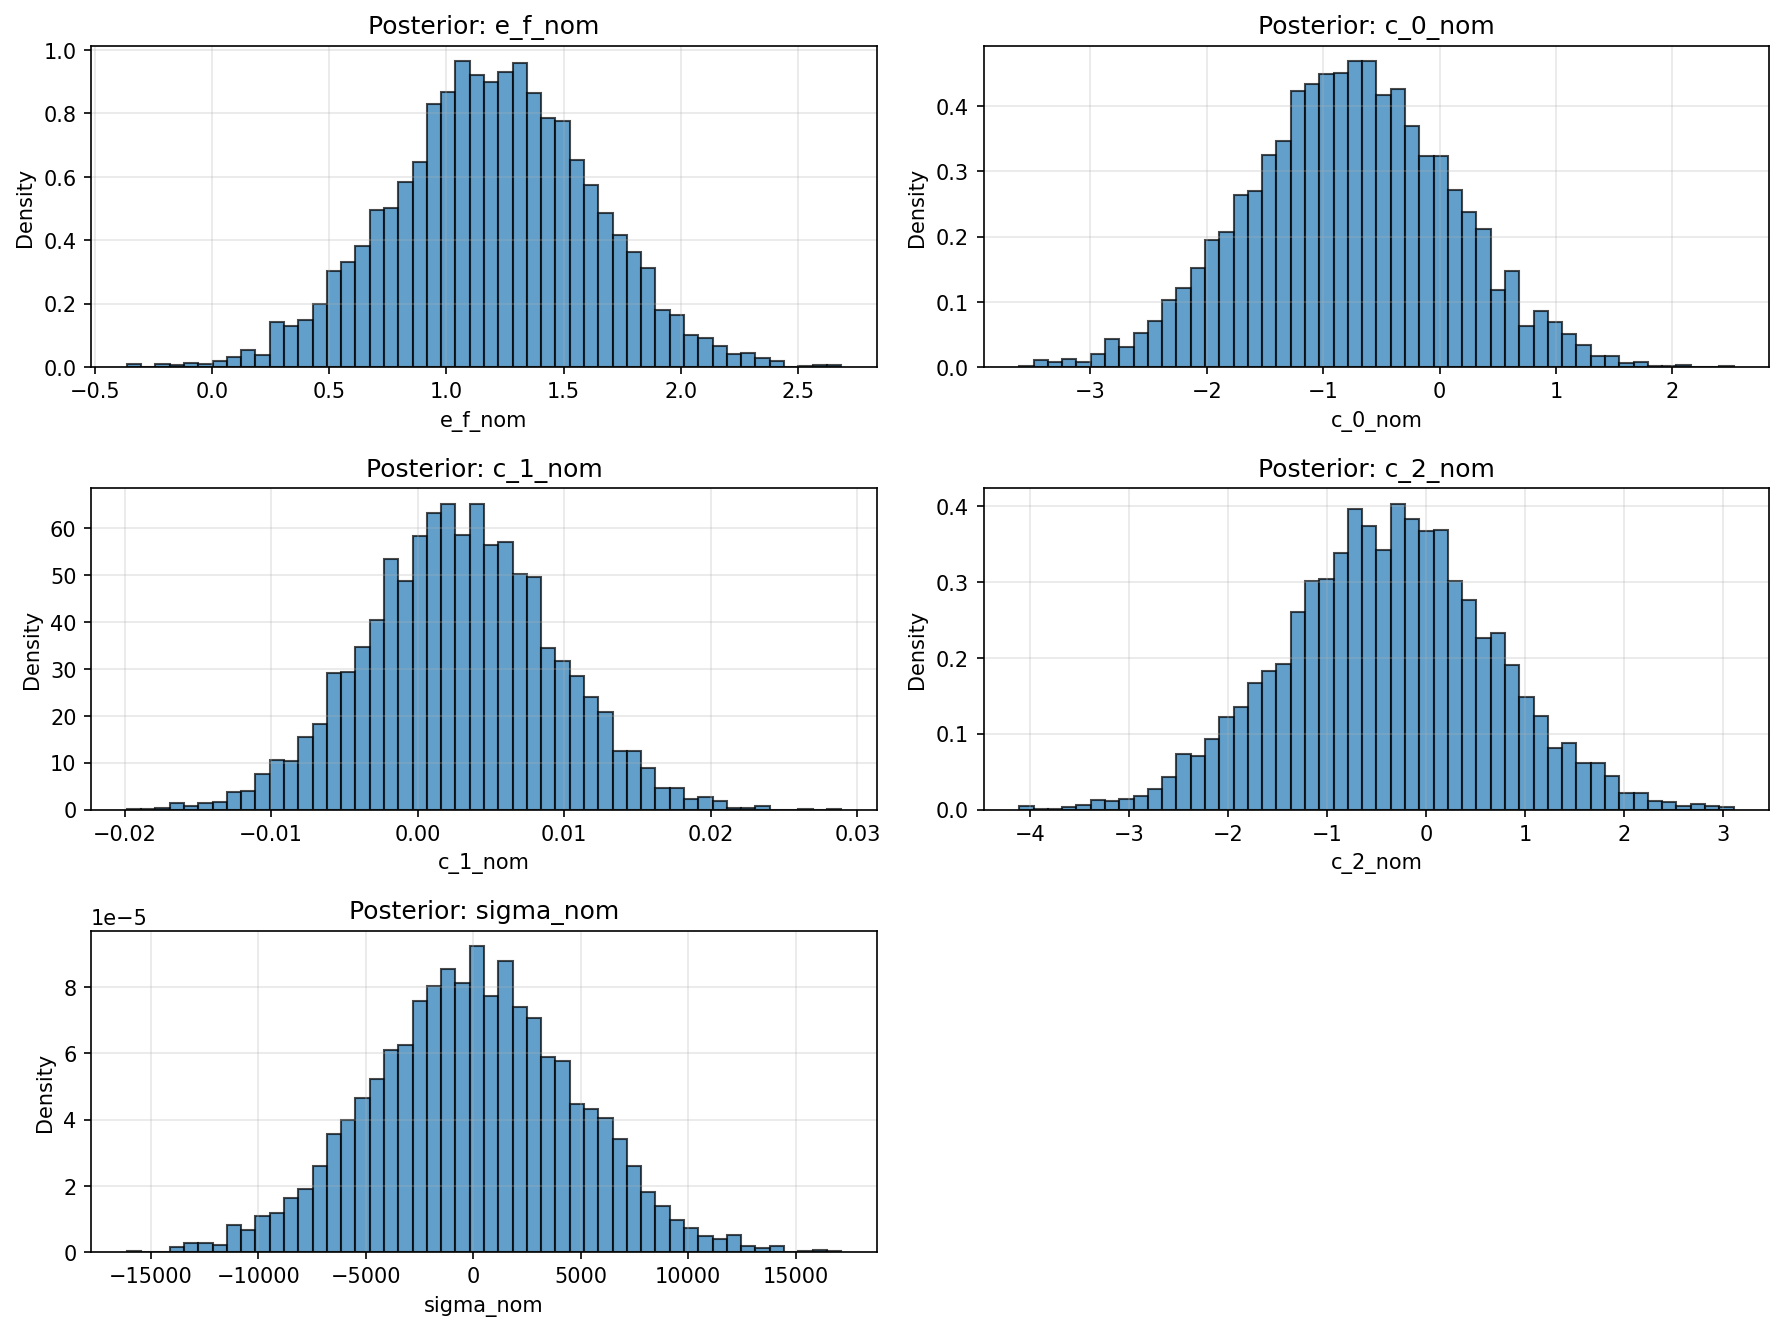
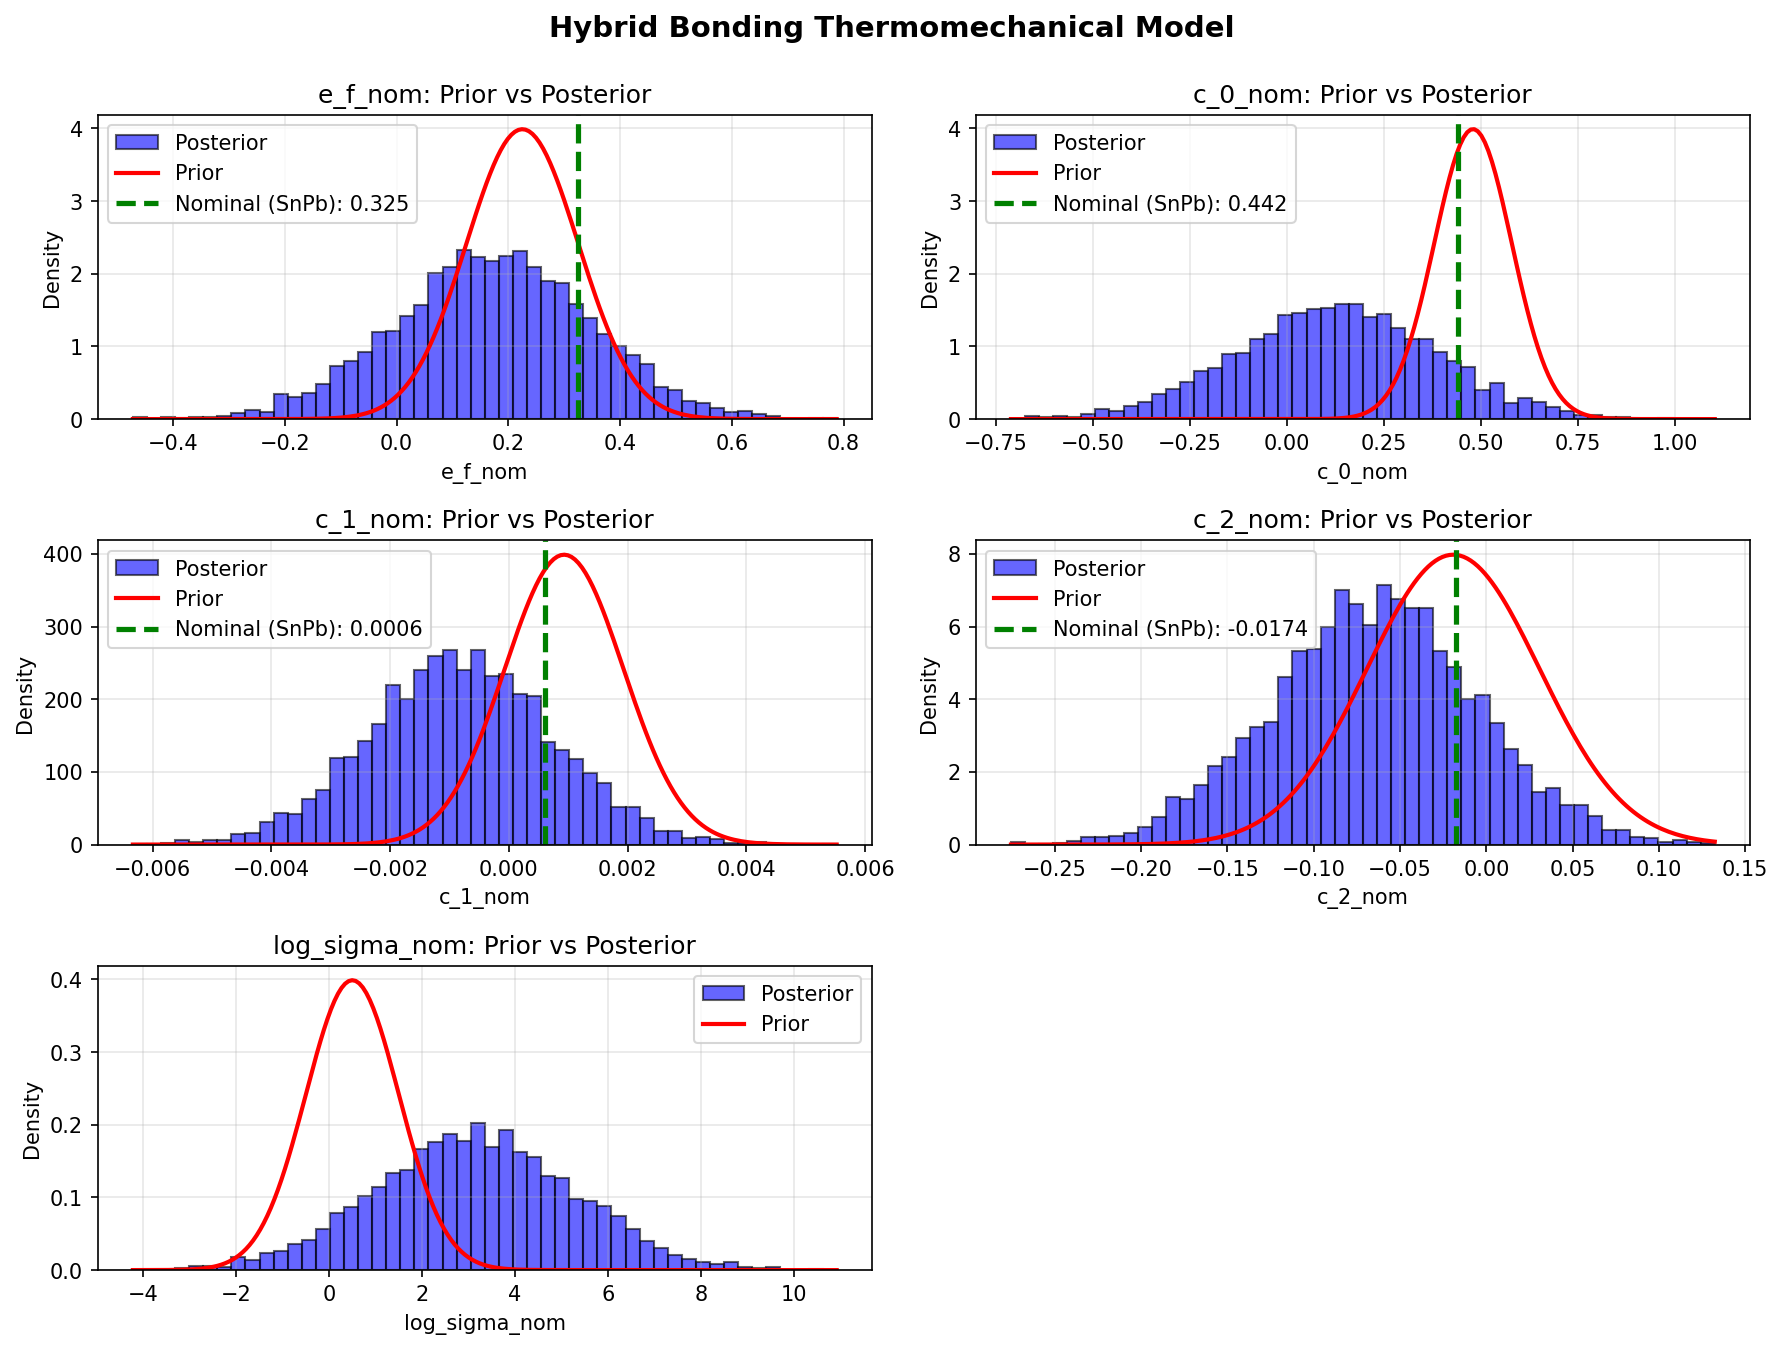
data is fitting reasonably, i think i have too many variables to fit for though

diff --git a/demos/hybrid_bonding/thermomech.py b/demos/hybrid_bonding/thermomech.py
@@ -15,7 +15,7 @@ import json
 import pandas as pd
 
 import seaborn as sb
-from matplotlib import pyplot as plt
+from matplotlib import pyplot as plt, scale
 import matplotlib.lines as pltlines
 
 import os
@@ -32,16 +32,26 @@ import stratcona
 
 
 def hybrid_bonding_thermomech():
+    """
+    Fit Engelmaier thermomechanical fatigue model to hybrid bonding data.
+    Modify the prior dictionaries below to test different parameter constraints.
+    """
     ##########################################
-    # My Fabricated Experimental Data Here ?
+    # My Fabricated Experimental Data Here
     ###########################################
 
     # Pairs of points [ % delta_D, Nf (means cycles to failure)]
-    delta_D_Nfdata = [[11, 10], [9, 10E2], [1.8,10E3], [0.6,10E4], [0.2,10E5], [0.07, 10E6]]
+    # Tried to read of figure 10 from the paper but was guesstimating points
+    # delta_D_Nfdata = [[11, 10], [9, 10E2], [1.8,10E3], [0.6,10E4], [0.2,10E5], [0.07, 10E6]] #this was bad data
+
+    # Using data read of the SnPb plot I generated
+    delta_D_Nfdata = [[0.16263, 10], [0.0581, 10E2], [0.01916,10E3], [0.00657,10E4], [0.00228,10E5], [0.00078, 10E6]]
 
     # Convert fabricated data to arrays
-    delta_D_data = jnp.array([pt[0] for pt in delta_D_Nfdata])/100
+    delta_D_data = jnp.array([pt[0] for pt in delta_D_Nfdata])
     Nf_data      = jnp.array([pt[1] for pt in delta_D_Nfdata])
+
+    Nf_avg = jnp.mean(Nf_data)
 
     ########################################################
     # Defining the Model
@@ -59,33 +69,58 @@ def hybrid_bonding_thermomech():
     # - t_D: reference time constant (seconds)
     # - delta_D: inelastic (plastic) strange range for cycles (dimensionless ratio delta_L/L)
 
+    #################################################################
+    # Define Prior Parameters
+    #################################################################
+
+    # Using priors from SAC105 and Data from SnPb to see if model will update beliefs accordingly
+    e_f_prior = {'loc': 0.225, 'scale': 0.1}      # fatigue ductility coefficient
+    c_0_prior = {'loc': 0.480, 'scale': 0.1}  # base fatigue exponent
+    c_1_prior = {'loc': 9.30E-04, 'scale': 1E-03}   # temperature coefficient
+    c_2_prior = {'loc': -1.92E-02, 'scale': 5E-02}  # dwell time coefficient
+    log_sigma_prior = {'loc': 0.5, 'scale': 1}    # log-space measurement variance
+    
+    print("="*70)
+    print("Priors being used:")
+    print(f"  e_f:     loc={e_f_prior['loc']}, scale={e_f_prior['scale']}")
+    print(f"  c_0:     loc={c_0_prior['loc']}, scale={c_0_prior['scale']}")
+    print(f"  c_1:     loc={c_1_prior['loc']}, scale={c_1_prior['scale']}")
+    print(f"  c_2:     loc={c_2_prior['loc']}, scale={c_2_prior['scale']}")
+    print("="*70)
+    print()
+
     def calc_engelmaier(e_f, c_0, c_1, c_2, t_0, T_sj, t_D, delta_D):
         m =  c_0 + c_1*T_sj + c_2*jnp.log(1 + t_0 / t_D) 
         N_f_50 = 0.5*(2*e_f/delta_D)**(1/m)
         return N_f_50
     
-    mb = stratcona.SPMBuilder(mdl_name='hb_engelmaier')
-    mb.add_params(t_0=360)
+    def calc_log_engelmaier(e_f, c_0, c_1, c_2, t_0, T_sj, t_D, delta_D):
+        """Return log of predicted Nf for LogNormal likelihood"""
+        N_f = calc_engelmaier(e_f, c_0, c_1, c_2, t_0, T_sj, t_D, delta_D)
+        return jnp.log(N_f)
     
-    mb.add_hyperlatent('e_f_nom', dists.Normal, {'loc': 0.325, 'scale': 0.001})
-    mb.add_hyperlatent('c_0_nom', dists.Normal, {'loc': 0.442, 'scale': 0.01})
-    mb.add_hyperlatent('c_1_nom', dists.Normal, {'loc': 6.00E-04, 'scale': 1E-5})
-    mb.add_hyperlatent('c_2_nom', dists.Normal, {'loc': -1.72E-02, 'scale': 5E-04})
-    mb.add_hyperlatent('sigma_nom', dists.HalfNormal, {'scale': 0.5})
+    mb = stratcona.SPMBuilder(mdl_name='hb_engelmaier')
+    mb.add_params(t_0=400)
+    
+    mb.add_hyperlatent('e_f_nom', dists.Normal, e_f_prior)
+    mb.add_hyperlatent('c_0_nom', dists.Normal, c_0_prior)
+    mb.add_hyperlatent('c_1_nom', dists.Normal, c_1_prior)
+    mb.add_hyperlatent('c_2_nom', dists.Normal, c_2_prior)
+    mb.add_hyperlatent('log_sigma_nom', dists.Normal, log_sigma_prior)
     
     mb.add_latent('e_f', nom='e_f_nom')
     mb.add_latent('c_0', nom='c_0_nom')
     mb.add_latent('c_1', nom='c_1_nom')
     mb.add_latent('c_2', nom='c_2_nom')
-    mb.add_latent('sigma', nom='sigma_nom')
+    mb.add_latent('log_sigma', nom='log_sigma_nom')
     
-    mb.add_intermediate('engelmaier_nf', calc_engelmaier)
+    mb.add_intermediate('log_engelmaier_nf', calc_log_engelmaier)
 
     mb.add_observed(
         'nf_delta_D',
-        dists.Normal,
-        {'loc': 'engelmaier_nf', 'scale': 'sigma'},
-        len(delta_D_data)
+        dists.LogNormal,
+        {'loc': 'log_engelmaier_nf', 'scale': 'log_sigma'},
+        1  # One observation per test condition
     )
 
     am = stratcona.AnalysisManager(mb.build_model(), rng_seed=424242)
@@ -94,12 +129,18 @@ def hybrid_bonding_thermomech():
     # Define how the data was collected
     #################################################################
 
-    # These are the numbers taken from Fig 10 in the paper
-    accel_test = stratcona.TestDef(
-        'accel_test',
-        {'at_50C_10m': {'lot': 1, 'chp': len(delta_D_data)}},
-        {'at_50C_10m': {'T_sj': 50, 't_D': 600, 'delta_D': delta_D_data}}
-    )
+    # Create a separate test condition for each delta_D value
+    test_conds = {}
+    for i, delta_D_val in enumerate(delta_D_data):
+        test_name = f'test_{i}'
+        test_conds[test_name] = {'lot': 1, 'chp': 1}
+    
+    cond_params = {}
+    for i, delta_D_val in enumerate(delta_D_data):
+        test_name = f'test_{i}'
+        cond_params[test_name] = {'T_sj': 50, 't_D': 600, 'delta_D': float(delta_D_val)}
+    
+    accel_test = stratcona.TestDef('accel_test', test_conds, cond_params)
     am.set_test_definition(accel_test)
 
     #################################################################
@@ -107,11 +148,11 @@ def hybrid_bonding_thermomech():
     #################################################################
     start_time = time.time()
 
-    measured_data = {
-        'at_50C_10m': {            
-            'nf_delta_D': Nf_data  
-        }
-    }
+    # Build measured_data with one entry per test point
+    measured_data = {}
+    for i, nf_val in enumerate(Nf_data):
+        test_name = f'test_{i}'
+        measured_data[test_name] = {'nf_delta_D': jnp.array([nf_val])}
 
     am.do_inference(measured_data)
     print(f'Inference completed in {time.time() - start_time:.2f} seconds')
@@ -133,29 +174,69 @@ def hybrid_bonding_thermomech():
         print(f"{hyl_name}: mean={float(jnp.mean(posterior_samples[hyl_name])):.6f}, std={float(jnp.std(posterior_samples[hyl_name])):.6f}")
 
     #################################################################
-    # -------- PLOT POSTERIOR DISTRIBUTIONS --------------------------
+    # -------- PLOT POSTERIOR DISTRIBUTIONS WITH PRIORS ---------------
     #################################################################
     
+    # Use the same prior parameters defined earlier for consistency
+    prior_specs = {
+        'e_f_nom': e_f_prior,
+        'c_0_nom': c_0_prior,
+        'c_1_nom': c_1_prior,
+        'c_2_nom': c_2_prior,
+        'log_sigma_nom': log_sigma_prior
+    }
+    
+    # Expected nominal values from SnPb solder data
+    nominal_values = {
+        'e_f_nom': 0.325,
+        'c_0_nom': 0.442,
+        'c_1_nom': 6.00e-04,
+        'c_2_nom': -1.74e-02,
+    }
+
+    model_mode = "Hybrid Bonding Thermomechanical Model"
+
     n_vars = len(posterior_samples)
     fig, axes = plt.subplots((n_vars + 1) // 2, 2, figsize=(12, 3 * ((n_vars + 1) // 2)))
     axes = axes.flatten()
     
     for idx, (hyl_name, samples) in enumerate(posterior_samples.items()):
         ax = axes[idx]
-        ax.hist(samples, bins=50, density=True, alpha=0.7, edgecolor='black')
+        
+        # Plot posterior histogram
+        ax.hist(samples, bins=50, density=True, alpha=0.6, label='Posterior', color='blue', edgecolor='black')
+        
+        # Plot prior curve
+        x_range = jnp.linspace(float(jnp.min(samples)), float(jnp.max(samples)), 200)
+        if hyl_name in prior_specs:
+            prior_dist = dists.Normal(**prior_specs[hyl_name])
+            prior_pdf = jnp.exp(prior_dist.log_prob(x_range))
+            ax.plot(x_range, prior_pdf, 'r-', linewidth=2, label='Prior')
+        
+        # Plot nominal value line
+        if hyl_name in nominal_values:
+            nom_val = nominal_values[hyl_name]
+            ax.axvline(nom_val, color='green', linestyle='--', linewidth=2.5, label=f'Nominal (SnPb): {nom_val:.4g}')
+        
         ax.set_xlabel(hyl_name)
         ax.set_ylabel('Density')
-        ax.set_title(f'Posterior: {hyl_name}')
+        ax.set_title(f'{hyl_name}: Prior vs Posterior')
+        ax.legend()
         ax.grid(True, alpha=0.3)
     
     # Remove extra subplots
     for idx in range(n_vars, len(axes)):
         fig.delaxes(axes[idx])
     
+    fig.suptitle(model_mode, fontsize=14, fontweight='bold', y=0.995)
+    
     plt.tight_layout()
-    plt.savefig('posterior_distributions.png', dpi=150, bbox_inches='tight')
-    print(f"\nPlot saved as 'posterior_distributions.png'")
+    filename = 'posterior_distributions.png'
+    plt.savefig(filename, dpi=150, bbox_inches='tight')
+    print(f"\nPlot saved as '{filename}'")
     plt.show()
 
-hybrid_bonding_thermomech()
+
+if __name__ == '__main__':
+    hybrid_bonding_thermomech()
 

diff --git a/demos/engelmaier/sampling_results_reproduce.py b/demos/engelmaier/sampling_results_reproduce.py
@@ -57,16 +57,8 @@ def run_engelmaier_sac_snsg_mc(
         "e_f": 0.325,
         "c_0": 0.442,
         "c1": 6.00e-04,
-        "c2": -1.72e-02,
+        "c2": -1.74e-02,
         "t_0": 360
-    }
-
-    snag_nom = {
-        "e_f": 0.275,
-        "c_0": 0.430,
-        "c1": 6.30e-04,
-        "c2": -1.82e-02,
-        "t_0": 400
     }
 
     # variance parameters
@@ -78,6 +70,14 @@ def run_engelmaier_sac_snsg_mc(
         "t_0": 5.0
     }
 
+    snag_nom = {
+        "e_f": 0.275,
+        "c_0": 0.430,
+        "c1": 6.30e-04,
+        "c2": -1.82e-02,
+        "t_0": 400
+    }
+
     snag_sigma = {
         "e_f": 0.001,
         "c_0": 0.005,
@@ -86,7 +86,23 @@ def run_engelmaier_sac_snsg_mc(
         "t_0": 5.0
     }
 
-    delta_D = jnp.logspace(-3, 0, 1000)
+    sac105_nom = {
+        "e_f": 0.225,
+        "c_0": 0.480,
+        "c1": 9.30e-04,
+        "c2": -1.92e-02,
+        "t_0": 500
+    }
+
+    sac105_sigma = {
+        "e_f": 0.01,
+        "c_0": 0.005,
+        "c1":  1e-05,
+        "c2":  5e-04,
+        "t_0": 5.0
+    }
+
+    delta_D = jnp.logspace(-4, 0, 1000)
     T_sj = 50
     t_D = 600
 
@@ -101,6 +117,7 @@ def run_engelmaier_sac_snsg_mc(
 
     Nf_snpb_all = []
     Nf_snag_all = []
+    Nf_sac105_all = []
 
     keys = rand.split(key, n_samples)
 
@@ -108,6 +125,7 @@ def run_engelmaier_sac_snsg_mc(
 
         p_snpb = sample_params(keys[i], snpb_nom, snpb_sigma)
         p_snag = sample_params(keys[i], snag_nom, snag_sigma)
+        p_sac105 = sample_params(keys[i], sac105_nom, sac105_sigma)
 
         Nf_snpb = calc_engelmaier_sac_snsg(
             p_snpb["e_f"], p_snpb["c_0"], p_snpb["c1"], p_snpb["c2"],
@@ -119,11 +137,18 @@ def run_engelmaier_sac_snsg_mc(
             p_snag["t_0"], T_sj, t_D, delta_D
         )
 
+        Nf_sac105 = calc_engelmaier_sac_snsg(
+            p_sac105["e_f"], p_sac105["c_0"], p_sac105["c1"], p_sac105["c2"],
+            p_sac105["t_0"], T_sj, t_D, delta_D
+        )
+
         Nf_snpb_all.append(Nf_snpb)
         Nf_snag_all.append(Nf_snag)
+        Nf_sac105_all.append(Nf_sac105)
 
     Nf_snpb_all = jnp.stack(Nf_snpb_all)
     Nf_snag_all = jnp.stack(Nf_snag_all)
+    Nf_sac105_all = jnp.stack(Nf_sac105_all)
 
     # Summary stats
     def summarize(samples):
@@ -134,6 +159,7 @@ def run_engelmaier_sac_snsg_mc(
 
     mean_snpb, low_snpb, high_snpb = summarize(Nf_snpb_all)
     mean_snag, low_snag, high_snag = summarize(Nf_snag_all)
+    mean_sac105, low_sac105, high_sac105 = summarize(Nf_sac105_all)
 
     # Plot
     plt.figure(figsize=(8,6))
@@ -179,14 +205,44 @@ def run_engelmaier_sac_snsg_mc(
     plt.plot(low_snag, 100*delta_D, color="red", linestyle=":", linewidth=1)
     plt.plot(high_snag, 100*delta_D, color="red", linestyle=":", linewidth=1)
 
+    # ---- SAC105 ----
+    plt.plot(
+        mean_sac105,
+        100*delta_D,
+        color="green",
+        linewidth=2,
+        label="SAC105 Mean"
+    )
+
+    plt.fill_betweenx(
+        100*delta_D,
+        low_sac105,
+        high_sac105,
+        color="green",
+        alpha=0.2
+    )
+
+    plt.plot(low_sac105, 100*delta_D, color="green", linestyle="-.", linewidth=1)
+    plt.plot(high_sac105, 100*delta_D, color="green", linestyle="-.", linewidth=1)
 
     plt.xscale("log")
     plt.yscale("log")
+    plt.xlim(10**1, 10**6)
 
     plt.xlabel("Mean Cycles to Failure (Nf, 50%)")
     plt.ylabel("Inelastic Strain Range (ΔD)")
-    plt.title("Engelmaier Model Monte Carlo Bands")
+    plt.title("Engelmaier Model")
 
+    # Add labels at Nf = 10^1, 10^2, 10^3, 10^4, 10^5, 10^6
+    for power in range(1, 7):
+        nf_target = 10.0 ** power
+        # Find closest index in mean_snpb
+        idx_snpb = jnp.argmin(jnp.abs(mean_snpb - nf_target))
+        # Plot SnPb label as point coordinates
+        delta_d_value = 100*delta_D[idx_snpb]
+        plt.text(mean_snpb[idx_snpb], delta_d_value, f'  ($10^{{{power}}}$, {delta_d_value:.3f}%)', 
+                fontsize=9, color="blue", va='center', ha='left')
+        
     plt.legend()
     plt.grid(True, which="both")
     plt.tight_layout()
